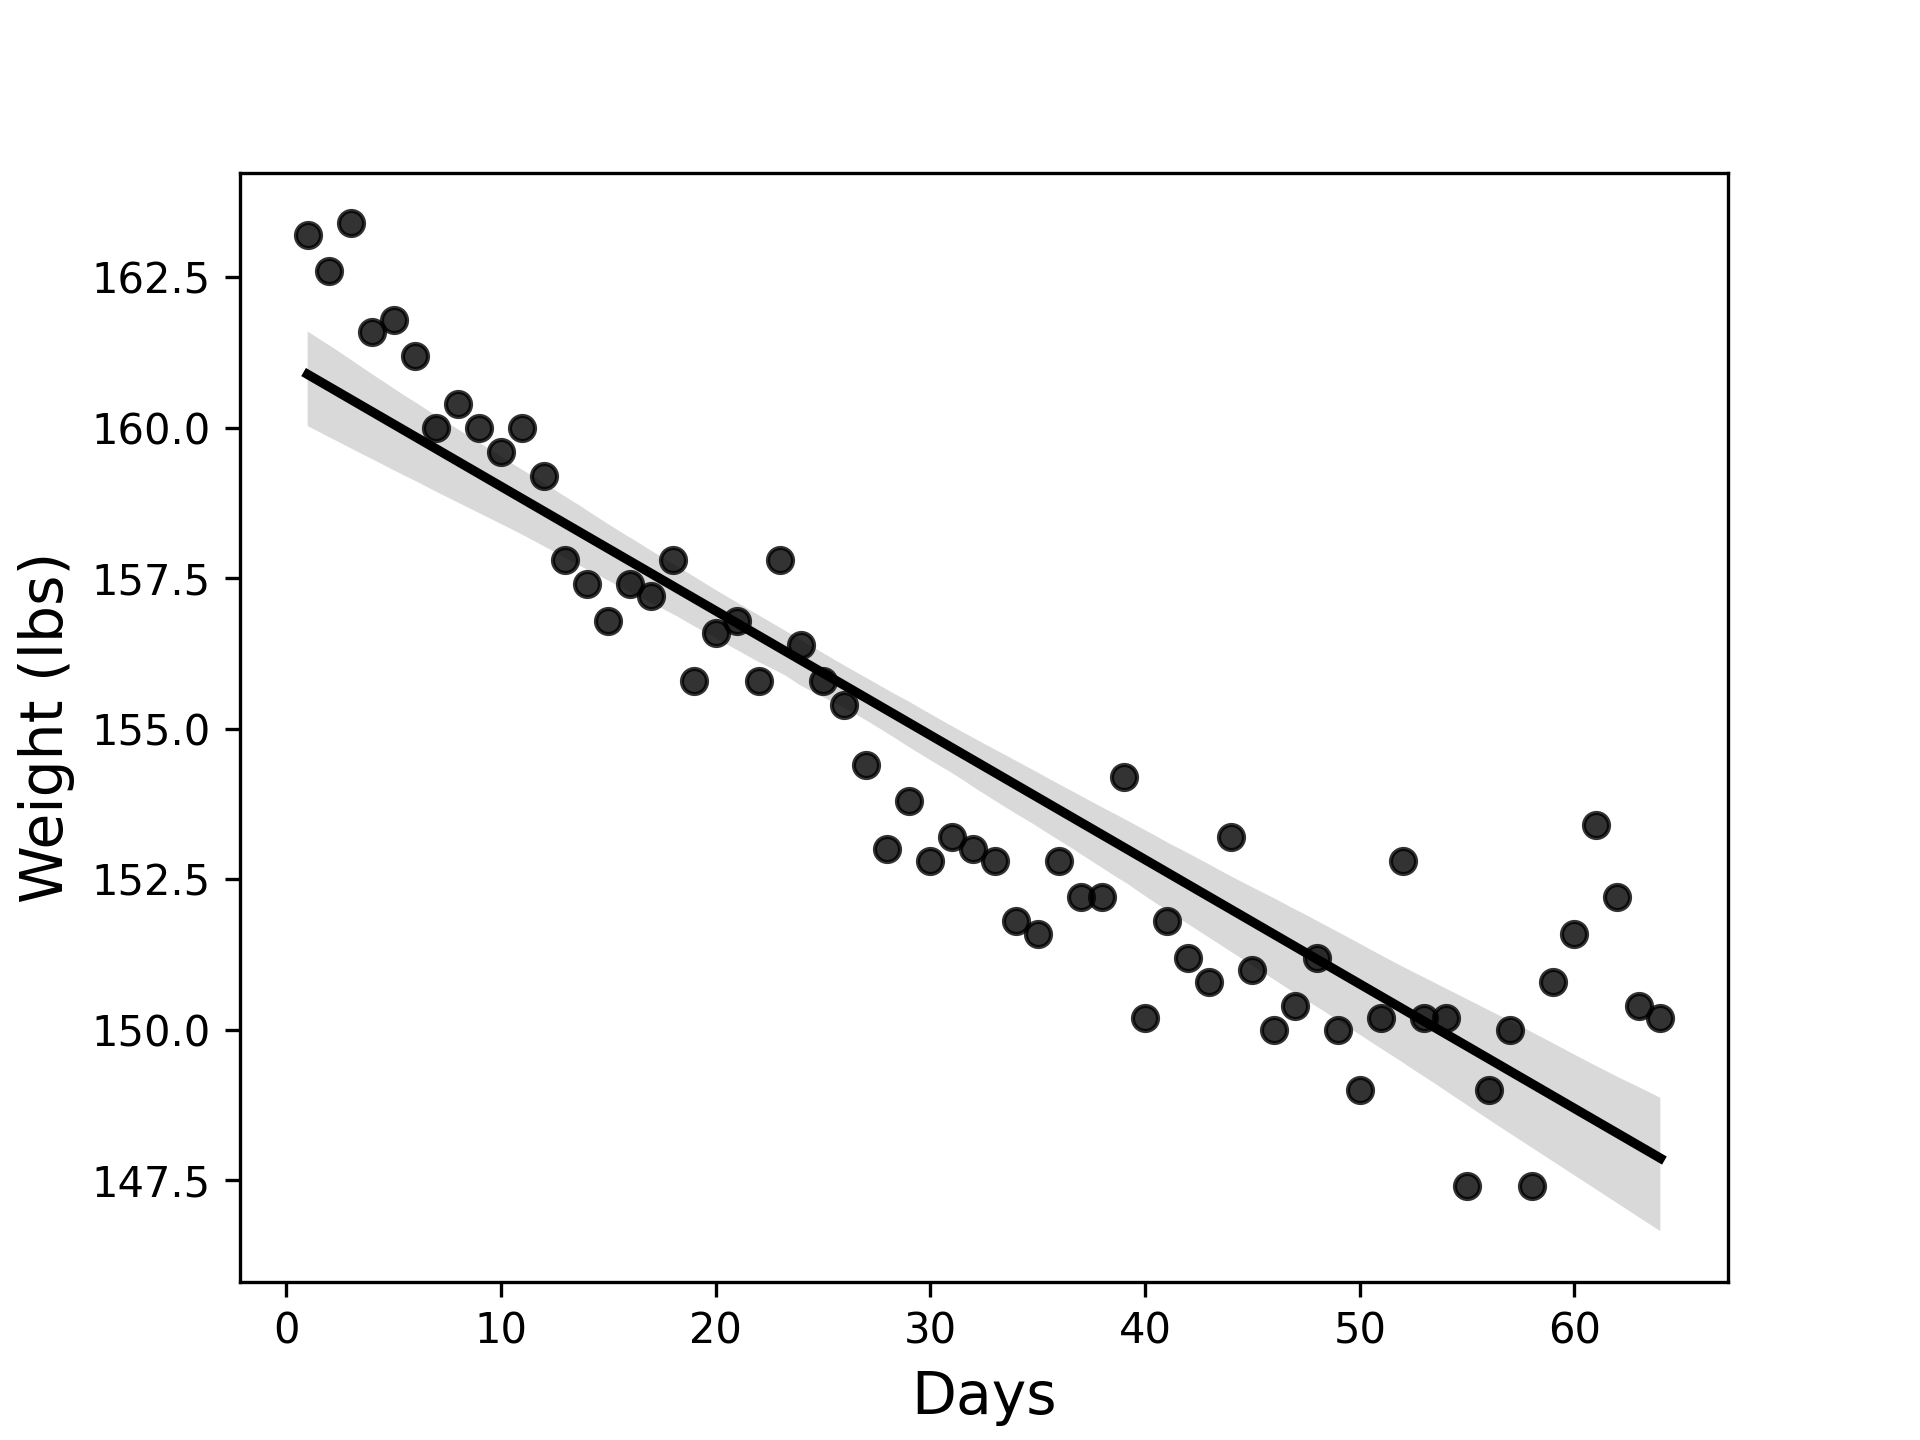
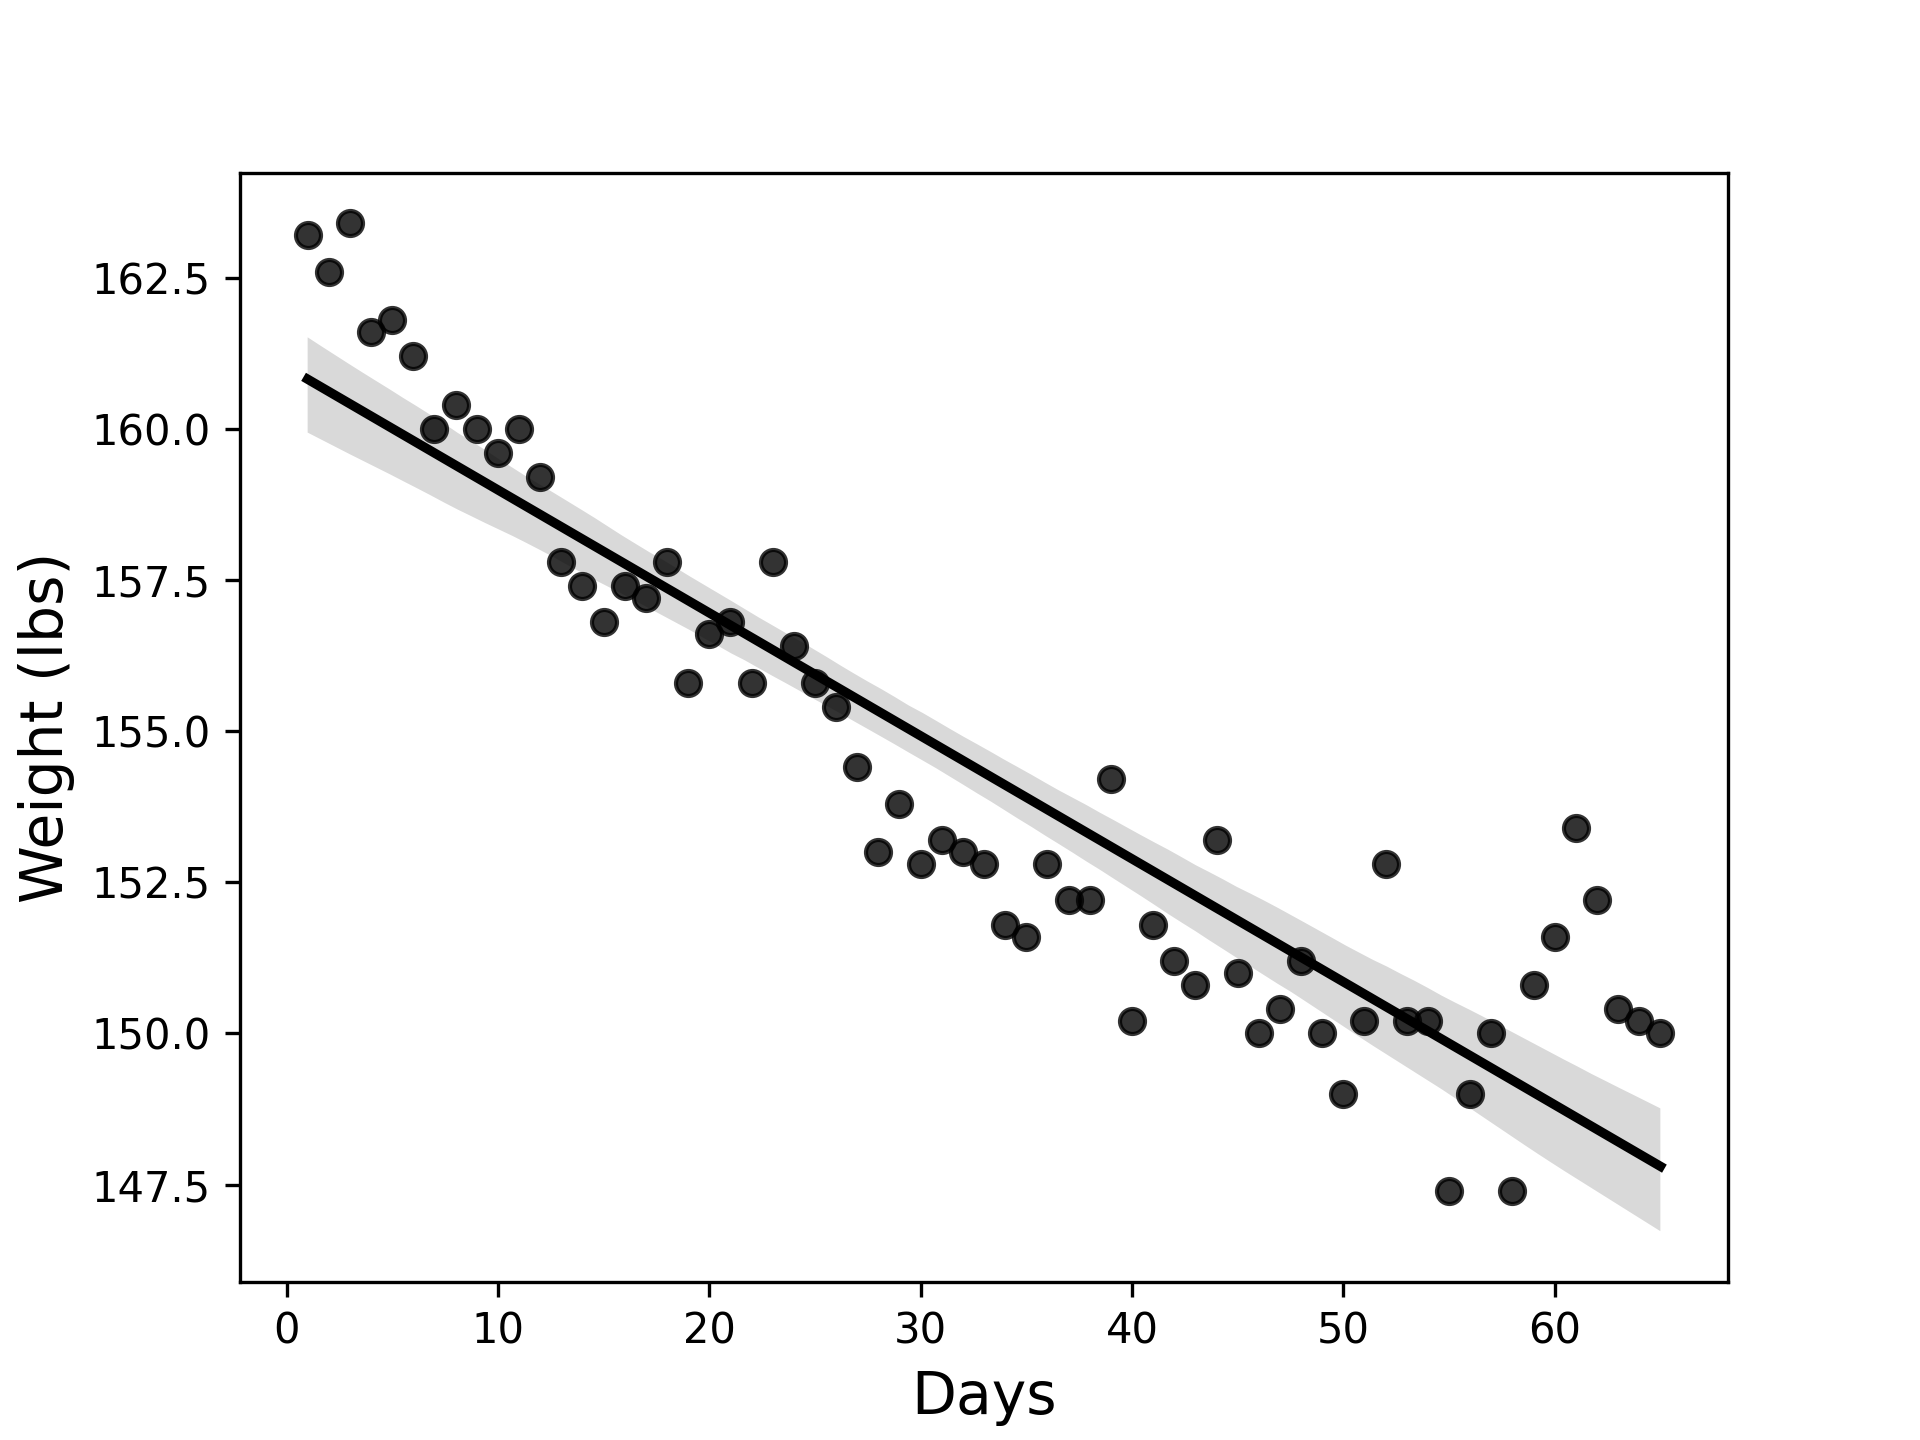
Updated weight.py and weight.png

diff --git a/Weight.py b/Weight.py
@@ -8,12 +8,12 @@ import seaborn as sns
 days_elapsed = np.array([1, 2, 3 ,4, 5, 6, 7, 8, 9, 10,11,12,13, 14,15,16,17,18,
                          19, 20,21,22,23,24,25,26,27,28,29,30,31,32,33,34,35,36,37,38,39,
                          40,41,42,43,44,45,46,47,48,49,50,51,52,53,54,55,56,57,58,59,60,61,62,
-                         63,64]).reshape(-1,1)
+                         63,64,65]).reshape(-1,1)
 weight = np.array([163.2, 162.6, 163.4, 161.6, 161.8, 161.2, 160.0, 160.4, 160.0, 159.6,160.0,159.2,157.8, 157.4,156.8,157.4,
                    157.2, 157.8,155.8, 156.6,156.8,155.8,157.8,156.4,155.8,155.4,154.4,153.0,153.8,152.8,153.2,
                    153.0,152.8,151.8,151.6,152.8,152.2,152.2,154.2,150.2, 151.8,151.2,150.8,153.2,
                    151.0,150.0,150.4,151.2,150.0,149.0,150.2,152.8,150.2,150.2,147.4,149.0,150.0,147.4,
-                   150.8,151.6,153.4,152.2,150.4,150.2])
+                   150.8,151.6,153.4,152.2,150.4,150.2,150.0])
 # Day 62 BP
 
 # Instantiates a LinearRegression model and fits it to the above arrays
